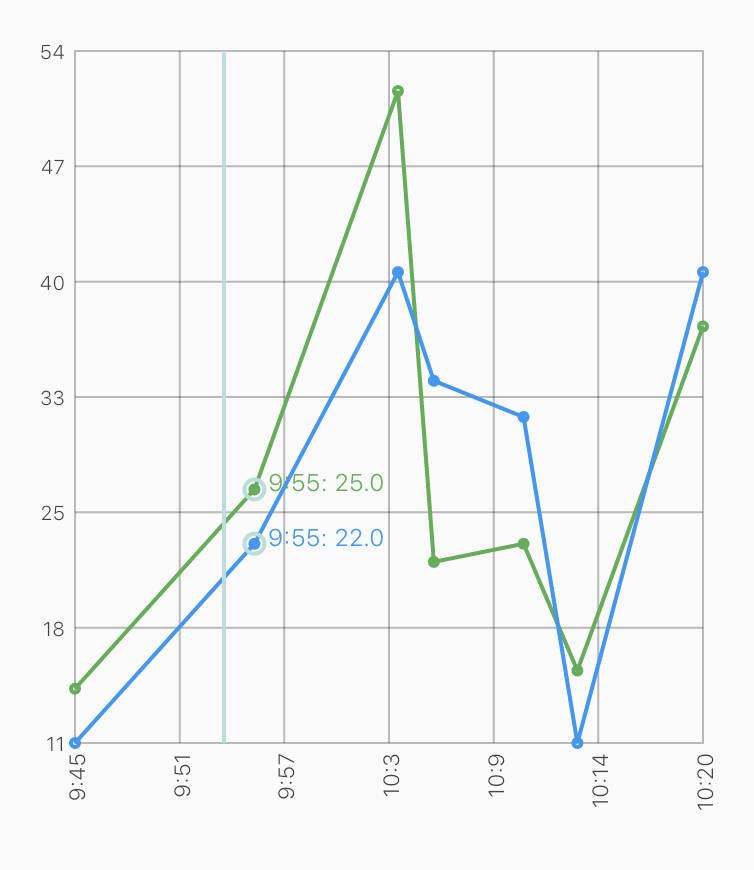
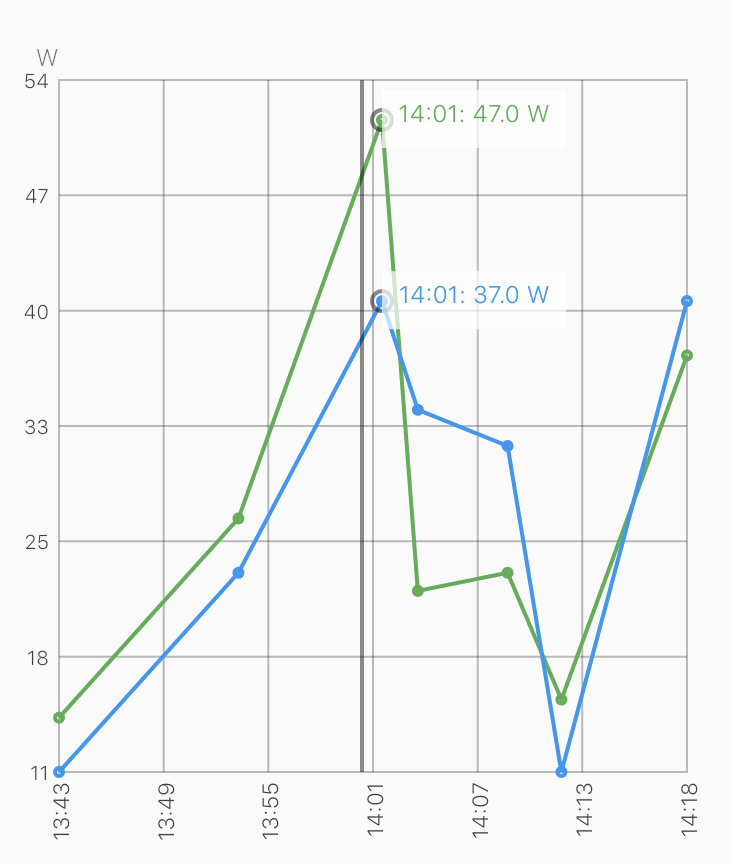
paint unit, refactor draw method

diff --git a/lib/chart/animated_line_chart.dart b/lib/chart/animated_line_chart.dart
@@ -96,7 +96,6 @@ class _GestureWrapperState extends State<_GestureWrapper> {
   }
 }
 
-
 class _AnimatedChart extends AnimatedWidget {
   final double height;
   final double width;
@@ -145,7 +144,68 @@ class ChartPainter extends CustomPainter {
   @override
   void paint(Canvas canvas, Size size) {
     _drawGrid(canvas, size);
+    _drawUnit(canvas, size);
+    _drawLines(size, canvas);
+    _drawAxisValues(canvas, size);
 
+    if (horizontalDragActive) {
+      _drawHighlights(size, canvas);
+    }
+  }
+
+  void _drawHighlights(Size size, Canvas canvas) {
+    linePainter.color = Colors.black45;
+    
+    if (horizontalDragPosition > axisOffsetPX && horizontalDragPosition < size.width) {
+      canvas.drawLine(Offset(horizontalDragPosition, 0), Offset(horizontalDragPosition, size.height - axisOffsetPX), linePainter);
+    }
+    
+    List<HighlightPoint> highlights = chart.getClosetHighlightPoints(horizontalDragPosition);
+    
+    int index = 0;
+    highlights.forEach((highlight) {
+      canvas.drawCircle(Offset(highlight.chartPoint.x, highlight.chartPoint.y), 5, linePainter);
+    
+      String prefix = "";
+    
+      if (highlight.chartPoint is DateTimeChartPoint) {
+        DateTimeChartPoint dateTimeChartPoint = highlight.chartPoint;
+        prefix = chart.formatDateTime(dateTimeChartPoint.dateTime);
+      }
+    
+      TextSpan span = new TextSpan(style: new TextStyle(color: chart.lines[index].color, fontWeight: FontWeight.w200, fontSize: 12), text: '$prefix: ${highlight.yValue.toStringAsFixed(1)} ${chart.yAxisUnit}');
+      TextPainter tp = new TextPainter(text: span, textAlign: TextAlign.right, textDirection: TextDirection.ltr);
+    
+      tp.layout();
+    
+      double x = highlight.chartPoint.x;
+    
+      double toolTipWidth = tp.width + 15;
+      if (x > (size.width - toolTipWidth)) {
+        x -= toolTipWidth;
+      }
+    
+      canvas.drawRect(Rect.fromLTWH(x, highlight.yTextPosition - 15, toolTipWidth, tp.height + 15), tooltipPainter);
+      tp.paint(canvas, new Offset(x + 7, highlight.yTextPosition-10));
+    
+      index++;
+    });
+  }
+
+  void _drawAxisValues(Canvas canvas, Size size) {
+    //TODO: calculate and cache
+    for (int c = 0; c <= (stepCount + 1); c++) {
+      TextPainter tp = chart.axisTexts[c];
+      tp.paint(canvas, new Offset(chart.axisOffSetWithPadding - tp.width, (size.height - 6)- (c * chart.heightStepSize) - axisOffsetPX));
+    }
+    
+    //TODO: calculate and cache
+    for (int c = 0; c <= (stepCount + 1); c++) {
+      _drawRotatedText(canvas, chart.yAxisTexts[c], chart.axisOffSetWithPadding + (c * chart.widthStepSize), size.height - chart.axisOffSetWithPadding, pi * 1.5);
+    }
+  }
+
+  void _drawLines(Size size, Canvas canvas) {
     int index = 0;
 
     chart.lines.forEach((chartLine) {
@@ -189,56 +249,14 @@ class ChartPainter extends CustomPainter {
       canvas.drawPath(path, linePainter);
       index++;
     });
+  }
 
-    //TODO: calculate and cache
-    for (int c = 0; c <= (stepCount + 1); c++) {
-      TextPainter tp = chart.axisTexts[c];
-      tp.paint(canvas, new Offset(chart.axisOffSetWithPadding - tp.width, (size.height - 6)- (c * chart.heightStepSize) - axisOffsetPX));
-    }
+  void _drawUnit(Canvas canvas, Size size) {
+    TextSpan span = new TextSpan(style: new TextStyle(color: Colors.black54, fontWeight: FontWeight.w200, fontSize: 12), text: chart.yAxisUnit);
+    TextPainter tp = new TextPainter(text: span, textAlign: TextAlign.right, textDirection: TextDirection.ltr);
+    tp.layout();
 
-    //TODO: calculate and cache
-    for (int c = 0; c <= (stepCount + 1); c++) {
-      _drawRotatedText(canvas, chart.yAxisTexts[c], chart.axisOffSetWithPadding + (c * chart.widthStepSize), size.height - chart.axisOffSetWithPadding, pi * 1.5);
-    }
-
-    if (horizontalDragActive) {
-      linePainter.color = Colors.black45;
-
-      if (horizontalDragPosition > axisOffsetPX && horizontalDragPosition < size.width) {
-        canvas.drawLine(Offset(horizontalDragPosition, 0), Offset(horizontalDragPosition, size.height - axisOffsetPX), linePainter);
-      }
-
-      List<HighlightPoint> highlights = chart.getClosetHighlightPoints(horizontalDragPosition);
-
-      index = 0;
-      highlights.forEach((highlight) {
-        canvas.drawCircle(Offset(highlight.chartPoint.x, highlight.chartPoint.y), 5, linePainter);
-
-        String prefix = "";
-
-        if (highlight.chartPoint is DateTimeChartPoint) {
-          DateTimeChartPoint dateTimeChartPoint = highlight.chartPoint;
-          prefix = chart.formatDateTime(dateTimeChartPoint.dateTime);
-        }
-
-        TextSpan span = new TextSpan(style: new TextStyle(color: chart.lines[index].color, fontWeight: FontWeight.w200, fontSize: 12), text: '$prefix: ${highlight.yValue.toStringAsFixed(1)}');
-        TextPainter tp = new TextPainter(text: span, textAlign: TextAlign.right, textDirection: TextDirection.ltr);
-
-        tp.layout();
-
-        double x = highlight.chartPoint.x;
-
-        double toolTipWidth = tp.width + 15;
-        if (x > (size.width - toolTipWidth)) {
-          x -= toolTipWidth;
-        }
-
-        canvas.drawRect(Rect.fromLTWH(x, highlight.yTextPosition - 15, toolTipWidth, tp.height + 15), tooltipPainter);
-        tp.paint(canvas, new Offset(x + 7, highlight.yTextPosition-10));
-
-        index++;
-      });
-    }
+    tp.paint(canvas, new Offset(LineChart.axisOffsetPX - tp.width, -18));
   }
 
   void _drawGrid(Canvas canvas, Size size) {

diff --git a/test/chart/line_chart_test.dart b/test/chart/line_chart_test.dart
@@ -9,19 +9,19 @@ import 'package:flutter_test/flutter_test.dart';
 
 void main() {
   test('init with empty dataset', () async {
-    LineChart lineChart = LineChart([], Dates(DateTime.now(), DateTime.now()));
+    LineChart lineChart = LineChart([], Dates(DateTime.now(), DateTime.now()), 'W');
     lineChart.initialize(200, 100);
 
     expect(lineChart.seriesMap.isEmpty, true);
 
-    lineChart = LineChart([ChartLine([], Colors.black, 'C')], Dates(DateTime.now(), DateTime.now()));
+    lineChart = LineChart([ChartLine([], Colors.black, 'C')], Dates(DateTime.now(), DateTime.now()), 'W');
     lineChart.initialize(200, 100);
 
     expect(lineChart.seriesMap.isEmpty, true);
   });
 
   test('init with 1 line', () async {
-    LineChart lineChart = LineChart([_createLine(10, 2, Colors.cyan, 'W')], Dates(DateTime.now(), DateTime.now()));
+    LineChart lineChart = LineChart([_createLine(10, 2, Colors.cyan, 'W')], Dates(DateTime.now(), DateTime.now()), 'W');
     lineChart.initialize(200, 100);
 
     expect(lineChart.seriesMap.length, 1);
@@ -37,7 +37,7 @@ void main() {
   test('init with multiple lines', () async {
     LineChart lineChart = LineChart([_createLine(10, 2, Colors.cyan, 'W'),
                                      _createLine(15, 1, Colors.cyan, 'W')],
-                                      Dates(DateTime.now(), DateTime.now()));
+                                      Dates(DateTime.now(), DateTime.now()), 'W');
     lineChart.initialize(200, 100);
 
     expect(lineChart.seriesMap.length, 2);
@@ -56,7 +56,7 @@ void main() {
   });
 
   test('width and height calculated based on min and max values', () async {
-    LineChart lineChart = LineChart([_createLine(10, 2, Colors.cyan, 'W')], Dates(DateTime.now(), DateTime.now()));
+    LineChart lineChart = LineChart([_createLine(10, 2, Colors.cyan, 'W')], Dates(DateTime.now(), DateTime.now()), 'W');
     lineChart.initialize(200, 100);
 
     expect(lineChart.width, 9);
@@ -64,7 +64,7 @@ void main() {
   });
 
   test('path cache', () async {
-    LineChart lineChart = LineChart([_createLine(10, 2, Colors.cyan, 'W')], Dates(DateTime.now(), DateTime.now()));
+    LineChart lineChart = LineChart([_createLine(10, 2, Colors.cyan, 'W')], Dates(DateTime.now(), DateTime.now()), 'W');
     lineChart.initialize(200, 100);
 
     expect(lineChart.width, 9);
@@ -72,7 +72,7 @@ void main() {
   });
 
   test('find the highlight closest', () async {
-    LineChart lineChart = LineChart([_createLine(10, 2, Colors.cyan, 'W')], Dates(DateTime.now(), DateTime.now()));
+    LineChart lineChart = LineChart([_createLine(10, 2, Colors.cyan, 'W')], Dates(DateTime.now(), DateTime.now()), 'W');
     lineChart.initialize(200, 100);
 
     expect(lineChart.width, 9);

diff --git a/lib/chart/line_chart.dart b/lib/chart/line_chart.dart
@@ -20,6 +20,7 @@ class LineChart {
 
   final List<ChartLine> lines;
   final Dates fromTo;
+  final String yAxisUnit;
   double _minX = 0;
   double _minY = 0;
   double _maxX = 0;
@@ -37,7 +38,7 @@ class LineChart {
   List<TextPainter> _axisTexts;
   List<TextPainter> _yAxisTexts;
 
-  LineChart(this.lines, this.fromTo) {
+  LineChart(this.lines, this.fromTo, this.yAxisUnit) {
       if (lines.length > 0) {
         _minX = lines[0].minX;
         _maxX = lines[0].maxX;
@@ -61,9 +62,9 @@ class LineChart {
       });
   }
 
-  factory LineChart.fromDateTimeMaps(List<Map<DateTime, double>> series, List<Color> colors) {
+  factory LineChart.fromDateTimeMaps(List<Map<DateTime, double>> series, List<Color> colors, String yAxisUnit) {
     Pair<List<ChartLine>, Dates> convertFromDateMaps = DateTimeSeriesConverter.convertFromDateMaps(series, colors);
-    return LineChart(convertFromDateMaps.left, convertFromDateMaps.right);
+    return LineChart(convertFromDateMaps.left, convertFromDateMaps.right, yAxisUnit);
   }
 
   double get width => _maxX - _minX;

diff --git a/example/lib/main.dart b/example/lib/main.dart
@@ -37,9 +37,9 @@ class _MyHomePageState extends State<MyHomePage> with FakeChartSeries {
   Widget build(BuildContext context) {
     Map<DateTime, double> line1 = createLine1();
     Map<DateTime, double> line2 = createLine2();
-    Map<DateTime, double> line3 = createLine3();
+//    Map<DateTime, double> line3 = createLine3();
 
-    LineChart lineChart = LineChart.fromDateTimeMaps([line3], [Colors.green, Colors.blue]);
+    LineChart lineChart = LineChart.fromDateTimeMaps([line1, line2], [Colors.green, Colors.blue], 'W');
 
     return Scaffold(
       appBar: AppBar(
